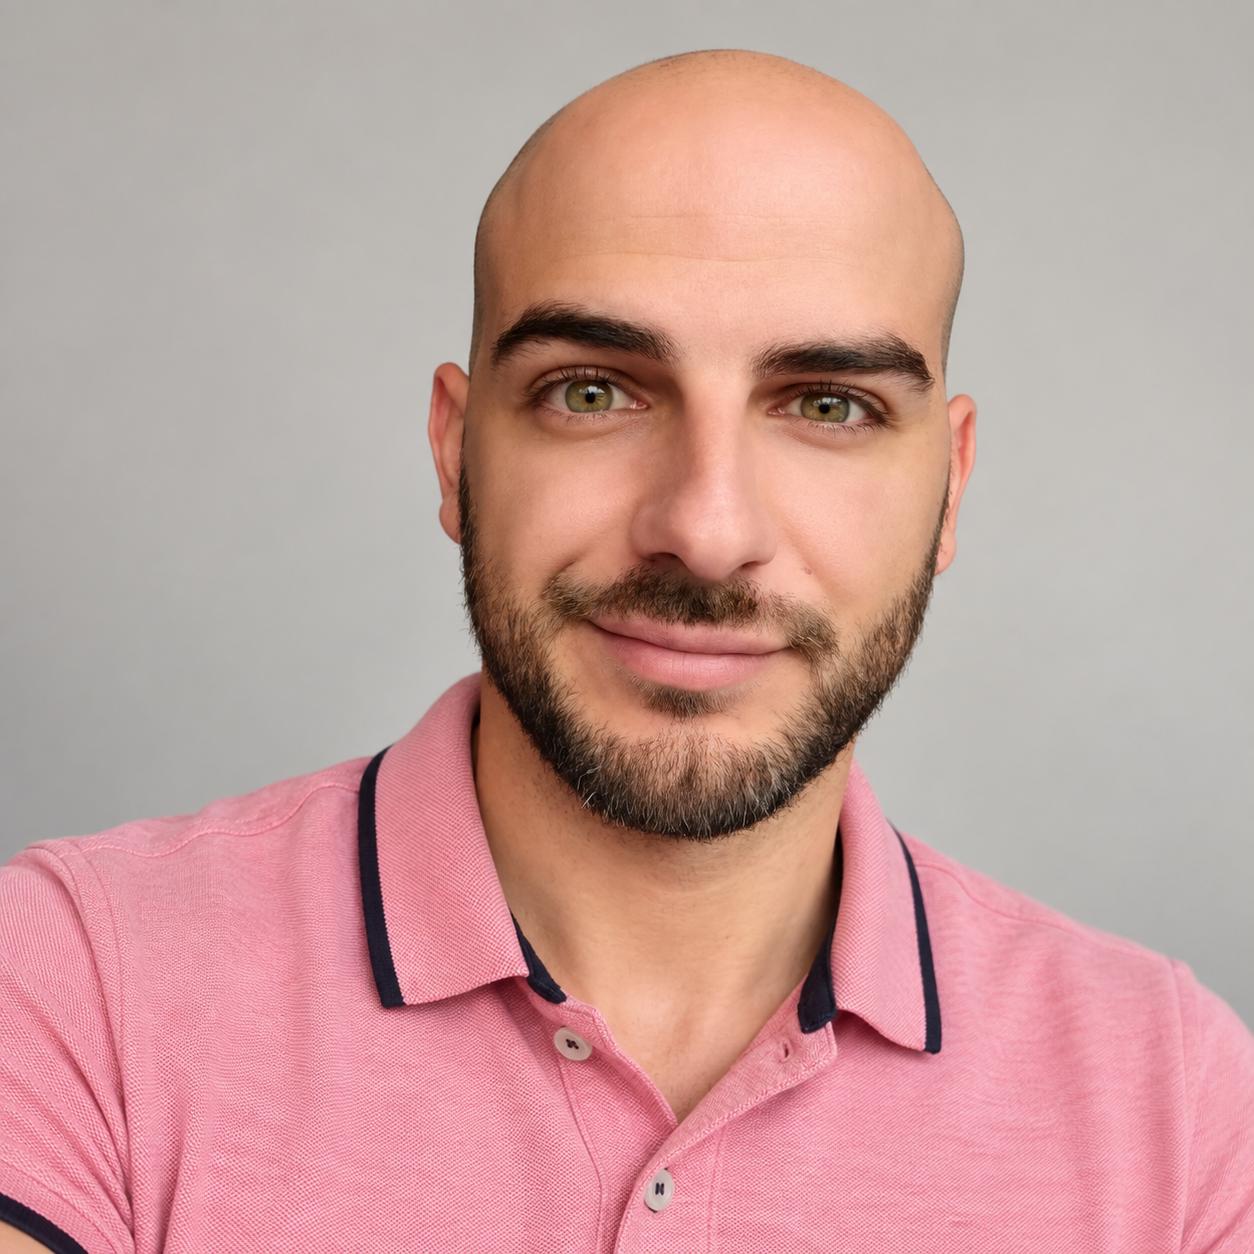
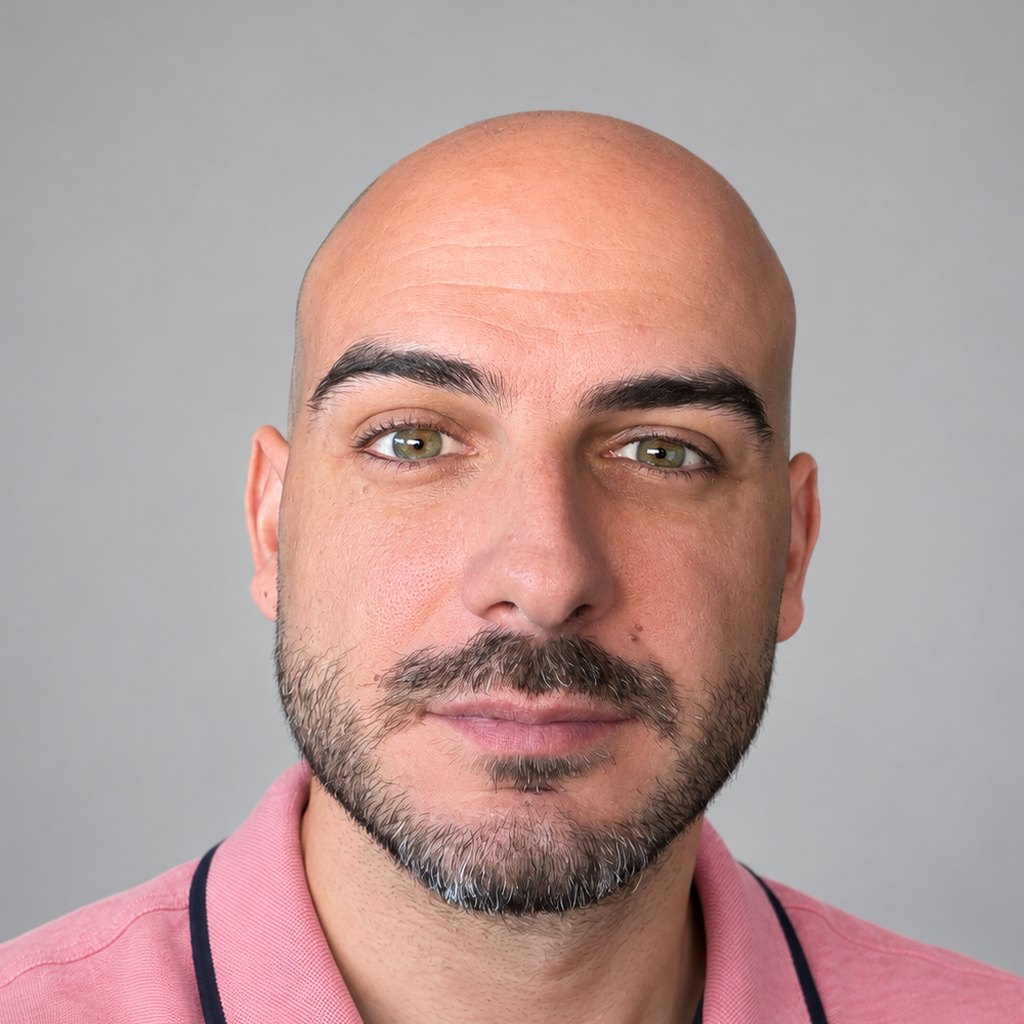
feat: contenido de los CV, foto nueva y parpadeo de Press Start

diff --git a/src/modules/profile/profile.ts b/src/modules/profile/profile.ts
@@ -3,6 +3,7 @@ import type { ContactLink, Profile, SkillGroup } from "@/shared/types/profile";
 
 /**
  * The owner's real identity and bio, in every supported language.
+ * Source: the Full Stack and QA versions of the CV (October 2026).
  *
  * Privacy note: the source CV also lists a personal phone number. It is
  * intentionally absent from this file and from the whole repository — a phone
@@ -19,7 +20,7 @@ const CONTACTS: readonly ContactLink[] = [
   {
     id: "linkedin",
     label: "LinkedIn",
-    href: "https://www.linkedin.com/in/adrichv/",
+    href: "https://www.linkedin.com/in/adrichdev/",
     external: true,
   },
   {
@@ -33,41 +34,44 @@ const CONTACTS: readonly ContactLink[] = [
 const IDENTITY = {
   name: "Adrián Chozas Vinuesa",
   handle: "AdrichDev",
-  role: "Software Developer",
   contacts: CONTACTS,
 } as const;
 
 export const PROFILES: Record<Lang, Profile> = {
   es: {
     ...IDENTITY,
+    role: "Desarrollador Full Stack",
     location: "Madrid, España",
     tagline:
       "Nueva partida. La misma misión: ayudar a resolver problemas a las personas. Tras más de 12 años en trabajo social, ahora construyo mi camino en el software.",
     portrait: {
       src: "/adrian-chozas.jpg",
-      alt: "Fotografía de perfil de Adrián Chozas Vinuesa, desarrollador de aplicaciones multiplataforma.",
+      alt: "Fotografía de perfil de Adrián Chozas Vinuesa, desarrollador Full Stack.",
       size: 1024,
     },
     bio: [
-      "Trabajador Social durante más de 12 años y hoy desarrollador de aplicaciones multiplataforma. Coordiné equipos y servicios de atención a personas mayores antes de dedicarme al software, y esa etapa sigue marcando mi forma de trabajar: escuchar antes de construir, entender a quién va dirigido cada producto y resolver los conflictos en cuanto aparecen.",
-      "Terminé el Grado Superior en Desarrollo de Aplicaciones Multiplataforma en junio de 2026 y actualmente curso un Máster en Desarrollo con Inteligencia Artificial. Entre medias trabajé como Software Developer en prácticas en EXCELIA, desarrollando aplicaciones web con React, Next.js, TypeScript y Tailwind CSS, además de integraciones con Power Platform, Navision y Business Central.",
-      "Alegre, entusiasta y apasionado por lo que hago. Me mantengo en formación constante, valoro profundamente el buen uso del tiempo y la eficiencia, y creo que un entorno positivo y la pasión por lo que uno hace marcan la diferencia.",
+      "Desarrollador Full Stack con experiencia en React, Next.js, TypeScript, Java, Python y SQL. Me especializo en integrar y orquestar agentes de IA con herramientas como Gentle-AI y enfoques SDD y ODD, diseñando flujos multiagente que cubren todo el ciclo de desarrollo: requisitos, arquitectura, implementación, testing y despliegue.",
+      "La calidad forma parte de mi forma de trabajar. En EXCELIA desarrollé aplicaciones web con React, Next.js, Node.js y Power Platform, y además diseñé pruebas funcionales y automaticé flujos E2E con Cypress y Cucumber (BDD). En mis proyectos propios cubro el código con tests unitarios y end-to-end con Vitest y Playwright.",
+      "Antes del software fui Trabajador Social durante más de 12 años, coordinando equipos de hasta 60 profesionales y resolviendo incidencias complejas bajo presión. De esa etapa traigo lo que más valoro: escuchar antes de construir, entender a quién va dirigido cada producto y resolver los problemas en cuanto aparecen.",
+      "Terminé el Grado Superior en Desarrollo de Aplicaciones Multiplataforma en junio de 2026 y curso un Máster en Desarrollo con Inteligencia Artificial. Alegre, entusiasta y en formación constante.",
     ],
   },
   en: {
     ...IDENTITY,
+    role: "Full Stack Developer",
     location: "Madrid, Spain",
     tagline:
       "New game. Same mission: helping people solve their problems. After more than 12 years in social work, I am now building my path in software.",
     portrait: {
       src: "/adrian-chozas.jpg",
-      alt: "Profile photo of Adrián Chozas Vinuesa, cross-platform application developer.",
+      alt: "Profile photo of Adrián Chozas Vinuesa, Full Stack developer.",
       size: 1024,
     },
     bio: [
-      "Social worker for more than 12 years and now a cross-platform application developer. I coordinated teams and care services for older people before moving into software, and that stage still shapes the way I work: listening before building, understanding who each product is for and solving conflicts as soon as they appear.",
-      "I completed the Higher Technical Diploma in Cross-Platform Application Development in June 2026 and I am currently studying a Master's in Development with Artificial Intelligence. In between, I worked as a Software Developer intern at EXCELIA, building web applications with React, Next.js, TypeScript and Tailwind CSS, plus integrations with Power Platform, Navision and Business Central.",
-      "Cheerful, enthusiastic and passionate about what I do. I keep learning all the time, I deeply value making good use of time and working efficiently, and I believe a positive environment and passion for your work make all the difference.",
+      "Full Stack developer with experience in React, Next.js, TypeScript, Java, Python and SQL. I specialise in integrating and orchestrating AI agents with tools such as Gentle-AI and SDD and ODD approaches, designing multi-agent workflows that cover the whole development cycle: requirements, architecture, implementation, testing and deployment.",
+      "Quality is part of the way I work. At EXCELIA I built web applications with React, Next.js, Node.js and Power Platform, and I also designed functional tests and automated E2E flows with Cypress and Cucumber (BDD). In my own projects I cover the code with unit and end-to-end tests using Vitest and Playwright.",
+      "Before software I was a social worker for more than 12 years, coordinating teams of up to 60 professionals and solving complex incidents under pressure. From that stage I bring what I value most: listening before building, understanding who each product is for and solving problems as soon as they appear.",
+      "I completed the Higher Technical Diploma in Cross-Platform Application Development in June 2026 and I am studying a Master's in Development with Artificial Intelligence. Cheerful, enthusiastic and always learning.",
     ],
   },
 };
@@ -75,37 +79,46 @@ export const PROFILES: Record<Lang, Profile> = {
 /** Default (Spanish) profile, used by server-rendered metadata. */
 export const PROFILE: Profile = PROFILES.es;
 
-/** Short facts for the player card. Kept to labels the CV actually states. */
+/** Short facts for the player card. Kept to what the CV actually states. */
 export const PROFILE_FACTS: Record<Lang, readonly { label: string; value: string }[]> = {
   es: [
-    { label: "Rol", value: PROFILES.es.role },
+    { label: "Rol", value: "Desarrollador Full Stack · QA" },
     { label: "Ubicación", value: PROFILES.es.location },
-    { label: "Idiomas", value: "Español · Inglés B1 (Cambridge Certificate)" },
+    { label: "Idiomas", value: "Español · Inglés B2" },
+    { label: "Movilidad", value: "Carnet B · Vehículo propio" },
   ],
   en: [
-    { label: "Role", value: PROFILES.en.role },
+    { label: "Role", value: "Full Stack Developer · QA" },
     { label: "Location", value: PROFILES.en.location },
-    { label: "Languages", value: "Spanish · English B1 (Cambridge Certificate)" },
+    { label: "Languages", value: "Spanish · English B2" },
+    { label: "Mobility", value: "Driving licence · Own car" },
   ],
 };
 
 const SKILL_ITEMS = {
-  "languages-frameworks": ["Java", "Python", "Kotlin", "TypeScript", "React", "Next.js", "Tailwind CSS", "HTML", "CSS", "Maven"],
-  "data-platforms": ["SQL", "MySQL", "Supabase", "Microsoft Power Platform", "Docker", "n8n"],
-  "ai-workflows": ["Claude Code", "Codex", "OpenCode", "SDD", "MCPs", "GentleAI", "Playwright E2E", "NotebookLM"],
-  tools: ["Git", "Jira", "IntelliJ", "VS Code", "Antigravity", "Warp", "SQL Developer", "VirtualBox"],
+  development: ["TypeScript", "React", "Next.js", "Vue", "Node.js", "Express", "Java", "Spring Boot", "Python", "FastAPI", "Tailwind CSS"],
+  data: ["SQL", "PostgreSQL", "MySQL", "Supabase", "Prisma", "pgvector", "RabbitMQ", "Microsoft Power Platform", "Docker"],
+  qa: ["Vitest", "Playwright", "Cypress", "Cucumber (BDD)", "Postman", "API REST", "E2E", "Regression"],
+  ai: ["Claude Code", "Codex", "OpenCode", "Gentle-AI", "MCPs", "n8n", "RAG"],
+  workflow: ["Git", "Bitbucket", "Jira", "Scrum", "Kanban", "SDD", "TDD", "ODD", "Warp"],
 } as const;
 
 const SKILL_TITLES: Record<Lang, Record<keyof typeof SKILL_ITEMS, string>> = {
-  es: { "languages-frameworks": "Desarrollo", "data-platforms": "Datos y plataformas", "ai-workflows": "IA y calidad", tools: "Herramientas" },
-  en: { "languages-frameworks": "Development", "data-platforms": "Data & platforms", "ai-workflows": "AI & quality", tools: "Tools" },
+  es: { development: "Desarrollo", data: "Datos y plataformas", qa: "Testing y QA", ai: "IA y automatización", workflow: "Metodologías y herramientas" },
+  en: { development: "Development", data: "Data & platforms", qa: "Testing & QA", ai: "AI & automation", workflow: "Methods & tools" },
+};
+
+/** The few labels that read differently per language; everything else is a proper noun. */
+const SKILL_LABELS: Record<Lang, Partial<Record<string, string>>> = {
+  es: { Regression: "Regresión" },
+  en: {},
 };
 
 function skillGroups(lang: Lang): SkillGroup[] {
   return (Object.keys(SKILL_ITEMS) as (keyof typeof SKILL_ITEMS)[]).map((id) => ({
     id,
     title: SKILL_TITLES[lang][id],
-    items: SKILL_ITEMS[id],
+    items: SKILL_ITEMS[id].map((item) => SKILL_LABELS[lang][item] ?? item),
   }));
 }
 
@@ -118,19 +131,23 @@ export const SKILL_GROUPS: Record<Lang, readonly SkillGroup[]> = {
 /** Selected interpersonal strengths, expressed as concise keywords. */
 export const SOFT_SKILLS: Record<Lang, readonly string[]> = {
   es: [
-    "Habilidad comunicativa",
+    "Comunicación",
     "Empatía profesional",
-    "Liderazgo",
+    "Liderazgo de equipos",
     "Pensamiento analítico",
+    "Resolución de conflictos",
     "Adaptabilidad",
     "Aprendizaje continuo",
+    "Orientación a resultados",
   ],
   en: [
-    "Communication skills",
+    "Communication",
     "Professional empathy",
-    "Leadership",
+    "Team leadership",
     "Analytical thinking",
+    "Conflict resolution",
     "Adaptability",
     "Continuous learning",
+    "Results-driven",
   ],
 };

diff --git a/src/modules/experience/experience-entries.ts b/src/modules/experience/experience-entries.ts
@@ -3,6 +3,7 @@ import type { TimelineEntry } from "@/shared/types/timeline";
 
 /**
  * Real work history, newest first, in every supported language.
+ * Source: the Full Stack and QA versions of the CV (October 2026), merged.
  *
  * Layout constraint on `period`: it renders in Press Start 2P, which is
  * strictly monospaced at a 1em advance, inside a `sm:w-48` (192px) column at
@@ -13,18 +14,33 @@ import type { TimelineEntry } from "@/shared/types/timeline";
 export const WORK_TIMELINE: Record<Lang, readonly TimelineEntry[]> = {
   es: [
     {
+      id: "freelance",
+      period: "01/2025 – Hoy",
+      title: "Desarrollador Full Stack y QA",
+      subtitle: "Freelance · Proyectos propios",
+      location: "Madrid, España",
+      bullets: [
+        "Agents Agency: plataforma de agentes de IA con Next.js, Prisma, PostgreSQL y Supabase, desplegada en Vercel y Render. Tests de backend con Vitest.",
+        "CRM Studio: CRM modular para distintos negocios con Next.js, Express, Prisma y PostgreSQL sobre Supabase. Tests E2E con Playwright de autenticación, navegación y gestión de clientes.",
+        "Web Noel Martín: web profesional de un ciclista olímpico con React 19 y Tailwind CSS v4 en Cloudflare Workers, validada en responsive y entre dispositivos.",
+        "Gru Orchestrator: orquestador de agentes de IA en TypeScript, Python y Node.js, con tests unitarios de clasificación de tareas, riesgos y casos límite.",
+        "Nexus: asistente personal con IA y arquitectura RAG (Python/FastAPI, PostgreSQL, pgvector y embeddings), con tests unitarios y end-to-end.",
+      ],
+    },
+    {
       id: "excelia",
       period: "02/2026 – 06/2026",
-      title: "Software Developer",
+      title: "Desarrollador Full Stack y QA",
       subtitle: "EXCELIA · Contrato de prácticas",
       location: "Pozuelo de Alarcón, Madrid, España",
       bullets: [
-        "Análisis, desarrollo y mejora de aplicaciones web para la gestión de imputación de horas.",
-        "Desarrollo frontend con React, Next.js, TypeScript y Tailwind CSS, centrado en la experiencia de usuario.",
-        "Integración con Power Apps, Power Pages, Dataverse y Power Automate, junto a Navision y Business Central.",
-        "Backend: lógica de negocio, flujos de aprobación, automatizaciones con Jobs y Crons y colas con RabbitMQ.",
-        "Metodologías ágiles (Scrum y Kanban), gestión y automatización de tareas en Jira y comunicación en Teams.",
-        "Uso supervisado y orquestado de IA en el ciclo de vida del software (GPT, Claude, Gemini, agentes, workflows y SDD).",
+        "Análisis, desarrollo, migración y mejora de aplicaciones web para la gestión de imputación de horas y proyectos.",
+        "Frontend con React, Next.js, TypeScript y Tailwind CSS; backend con Node.js, Express, Prisma ORM y PostgreSQL.",
+        "Integración con Power Apps, Power Pages, Dataverse Web API y Power Automate, junto a Navision y Business Central.",
+        "Automatizaciones con Jobs y Crons, y procesos asíncronos con RabbitMQ.",
+        "Diseño y ejecución de pruebas funcionales y validación de la integridad de los datos durante la migración.",
+        "Automatización de pruebas E2E con Cypress y escenarios BDD con Cucumber sobre los criterios de aceptación.",
+        "Orquestación de agentes de IA en el ciclo de vida del software: tickets en Jira, SDD, ODD y versionado en Bitbucket.",
       ],
     },
     {
@@ -34,9 +50,8 @@ export const WORK_TIMELINE: Record<Lang, readonly TimelineEntry[]> = {
       subtitle: "DOMUSVI (SAD Ayto. de Madrid)",
       location: "Madrid, España",
       bullets: [
-        "Coordinación y gestión eficiente de urgencias e incidencias.",
-        "Liderazgo y supervisión de equipos, impulsando un clima de trabajo colaborativo.",
-        "Elaboración y control de cuadrantes, fomentando la conciliación.",
+        "Liderazgo de un equipo de 60 profesionales y gestión integral de incidencias críticas.",
+        "Planificación y optimización de recursos mediante cuadrantes y turnos del personal.",
         "Coordinación con entidades públicas para la correcta implementación de los servicios.",
       ],
     },
@@ -47,26 +62,41 @@ export const WORK_TIMELINE: Record<Lang, readonly TimelineEntry[]> = {
       subtitle: "ESSIP – MUNDOMAYOR",
       location: "Madrid, España",
       bullets: [
-        "Orientación y asesoramiento sobre recursos públicos y privados dirigidos a personas mayores.",
-        "Coordinación y supervisión de entidades colaboradoras, y trabajo conjunto con servicios sociales y otras entidades públicas.",
-        "Gestión de base de datos y herramientas de CRM, optimizando procesos y mejorando la experiencia de los usuarios.",
+        "Asesoramiento sobre recursos públicos y privados para personas mayores.",
+        "Coordinación interinstitucional con entidades públicas y resolución de situaciones complejas bajo presión.",
+        "Gestión de base de datos y herramientas de CRM, optimizando procesos y la experiencia de los usuarios.",
       ],
     },
   ],
   en: [
     {
+      id: "freelance",
+      period: "01/2025 – Now",
+      title: "Full Stack Developer & QA",
+      subtitle: "Freelance · Own projects",
+      location: "Madrid, Spain",
+      bullets: [
+        "Agents Agency: AI agent platform built with Next.js, Prisma, PostgreSQL and Supabase, deployed on Vercel and Render. Backend tests with Vitest.",
+        "CRM Studio: modular CRM for different businesses with Next.js, Express, Prisma and PostgreSQL on Supabase. Playwright E2E tests for authentication, navigation and client management.",
+        "Web Noel Martín: professional website for an Olympic cyclist with React 19 and Tailwind CSS v4 on Cloudflare Workers, validated for responsive design and across devices.",
+        "Gru Orchestrator: AI agent orchestrator in TypeScript, Python and Node.js, with unit tests for task classification, risk assessment and edge cases.",
+        "Nexus: AI personal assistant with a RAG architecture (Python/FastAPI, PostgreSQL, pgvector and embeddings), with unit and end-to-end tests.",
+      ],
+    },
+    {
       id: "excelia",
       period: "02/2026 – 06/2026",
-      title: "Software Developer",
+      title: "Full Stack Developer & QA",
       subtitle: "EXCELIA · Internship",
       location: "Pozuelo de Alarcón, Madrid, Spain",
       bullets: [
-        "Analysis, development and improvement of web applications for time-tracking management.",
-        "Frontend development with React, Next.js, TypeScript and Tailwind CSS, focused on user experience.",
-        "Integration with Power Apps, Power Pages, Dataverse and Power Automate, alongside Navision and Business Central.",
-        "Backend: business logic, approval flows, automations with Jobs and Crons, and queues with RabbitMQ.",
-        "Agile methodologies (Scrum and Kanban), task management and automation in Jira, and communication in Teams.",
-        "Supervised, orchestrated use of AI across the software lifecycle (GPT, Claude, Gemini, agents, workflows and SDD).",
+        "Analysis, development, migration and improvement of web applications for time-tracking and project management.",
+        "Frontend with React, Next.js, TypeScript and Tailwind CSS; backend with Node.js, Express, Prisma ORM and PostgreSQL.",
+        "Integration with Power Apps, Power Pages, Dataverse Web API and Power Automate, alongside Navision and Business Central.",
+        "Automations with Jobs and Crons, and asynchronous processes with RabbitMQ.",
+        "Design and execution of functional tests and data integrity validation during the migration.",
+        "E2E test automation with Cypress and BDD scenarios with Cucumber based on acceptance criteria.",
+        "AI agent orchestration across the software lifecycle: Jira tickets, SDD, ODD and versioning in Bitbucket.",
       ],
     },
     {
@@ -76,9 +106,8 @@ export const WORK_TIMELINE: Record<Lang, readonly TimelineEntry[]> = {
       subtitle: "DOMUSVI (Madrid City Council home care)",
       location: "Madrid, Spain",
       bullets: [
-        "Efficient coordination and handling of emergencies and incidents.",
-        "Team leadership and supervision, fostering a collaborative work environment.",
-        "Preparing and managing staff rotas, supporting work-life balance.",
+        "Led a team of 60 professionals and handled critical incidents end to end.",
+        "Resource planning and optimisation through staff rotas and shift scheduling.",
         "Coordination with public bodies to ensure services were delivered correctly.",
       ],
     },
@@ -89,9 +118,9 @@ export const WORK_TIMELINE: Record<Lang, readonly TimelineEntry[]> = {
       subtitle: "ESSIP – MUNDOMAYOR",
       location: "Madrid, Spain",
       bullets: [
-        "Guidance and advice on public and private resources for older people.",
-        "Coordination and supervision of partner organisations, working jointly with social services and other public bodies.",
-        "Database and CRM tool management, optimising processes and improving the user experience.",
+        "Advice on public and private resources for older people.",
+        "Inter-agency coordination with public bodies and handling complex situations under pressure.",
+        "Database and CRM tool management, optimising processes and the user experience.",
       ],
     },
   ],
@@ -110,7 +139,7 @@ export const EDUCATION_TIMELINE: Record<Lang, readonly TimelineEntry[]> = {
     {
       id: "dam",
       period: "09/2024 – 06/2026",
-      title: "Técnico Superior en Desarrollo de Aplicaciones Multiplataforma",
+      title: "Técnico Superior en Desarrollo de Aplicaciones Multiplataforma (DAM)",
       subtitle: "FP Tech Hub Euroformac",
       location: "Madrid, España",
     },
@@ -133,7 +162,7 @@ export const EDUCATION_TIMELINE: Record<Lang, readonly TimelineEntry[]> = {
     {
       id: "dam",
       period: "09/2024 – 06/2026",
-      title: "Higher Technical Diploma in Cross-Platform Application Development",
+      title: "Higher Technical Diploma in Cross-Platform Application Development (DAM)",
       subtitle: "FP Tech Hub Euroformac",
       location: "Madrid, Spain",
     },

diff --git a/src/modules/projects/projects.ts b/src/modules/projects/projects.ts
@@ -3,14 +3,26 @@ import type { ProjectSummary } from "@/shared/types/project";
 
 const GITHUB_OWNER_URL = "https://github.com/AdrichDev";
 
-/** Pinned repositories verified against the public profile on 2026-09-15. */
+/** Pinned repositories verified against the public profile on 2026-09-15. Descriptions follow the CV. */
 const PROJECT_SEEDS: readonly { repo: string; language: string; description: Record<Lang, string> }[] = [
-  { repo: "agents-agency", language: "TypeScript", description: { es: "Agencia de desarrollo de agentes de inteligencia artificial.", en: "Agency for building artificial intelligence agents." } },
-  { repo: "crm_creator", language: "TypeScript", description: { es: "Creador de CRM.", en: "CRM builder." } },
-  { repo: "gru_orchestrator", language: "TypeScript", description: { es: "Orquestador de agentes y workflows.", en: "Agent and workflow orchestrator." } },
-  { repo: "nexus", language: "Python", description: { es: "Asistente personal tipo Jarvis.", en: "Jarvis-style personal assistant." } },
-  { repo: "NumerosLoteria", language: "Java", description: { es: "Generador de números aleatorios de lotería.", en: "Random lottery number generator." } },
-  { repo: "portfolio", language: "TypeScript", description: { es: "Este portfolio retro: una aventura construida con Next.js, React y Tailwind CSS.", en: "This retro portfolio: an adventure built with Next.js, React and Tailwind CSS." } },
+  { repo: "agents-agency", language: "TypeScript", description: {
+    es: "Plataforma de agentes de IA con Next.js, Prisma, PostgreSQL y Supabase, desplegada en Vercel y Render.",
+    en: "AI agent platform with Next.js, Prisma, PostgreSQL and Supabase, deployed on Vercel and Render." } },
+  { repo: "crm_creator", language: "TypeScript", description: {
+    es: "CRM Studio: CRM modular para distintos negocios con Next.js, Express y Prisma, con tests E2E en Playwright.",
+    en: "CRM Studio: modular CRM for different businesses with Next.js, Express and Prisma, with Playwright E2E tests." } },
+  { repo: "gru_orchestrator", language: "TypeScript", description: {
+    es: "Orquestador de agentes de IA en TypeScript, Python y Node.js, con tests unitarios en Vitest.",
+    en: "AI agent orchestrator in TypeScript, Python and Node.js, with Vitest unit tests." } },
+  { repo: "nexus", language: "Python", description: {
+    es: "Asistente personal con IA y arquitectura RAG: FastAPI, PostgreSQL, pgvector y búsqueda semántica.",
+    en: "AI personal assistant with a RAG architecture: FastAPI, PostgreSQL, pgvector and semantic search." } },
+  { repo: "NumerosLoteria", language: "Java", description: {
+    es: "Generador de números aleatorios de lotería.",
+    en: "Random lottery number generator." } },
+  { repo: "portfolio", language: "TypeScript", description: {
+    es: "Este portfolio retro y bilingüe: una aventura construida con Next.js, React y Tailwind CSS.",
+    en: "This bilingual retro portfolio: an adventure built with Next.js, React and Tailwind CSS." } },
 ];
 
 function projects(lang: Lang): ProjectSummary[] {

diff --git a/src/app/globals.css b/src/app/globals.css
@@ -539,3 +539,7 @@ button:focus-visible,a:focus-visible,summary:focus-visible { outline:2px solid v
 .language-select select:focus-visible { outline:2px solid var(--color-signal-amber); outline-offset:3px; }
 .language-select option { background:#1d1030; color:var(--color-phosphor); }
 @media (max-width:600px) { .language-select select { font-size:7px; padding:6px 20px 6px 8px; } .language-select::after { right:6px; } }
+/* Arcade "PRESS START": hard on/off blink, like the attract mode of a cabinet. */
+.arcade-hard-blink { animation:arcade-hard-blink 1s steps(1,end) infinite; }
+@keyframes arcade-hard-blink { 0%,55% { opacity:1; } 56%,100% { opacity:0; } }
+@media (prefers-reduced-motion:reduce) { .arcade-hard-blink { animation:none!important; opacity:1; } }

diff --git a/src/app/layout.tsx b/src/app/layout.tsx
@@ -25,7 +25,7 @@ const ibmPlexMono = IBM_Plex_Mono({
 const PAGE_TITLE = `${PROFILE.name} — ${PROFILE.role}`;
 
 const PAGE_DESCRIPTION =
-  "Portfolio de Adrián Chozas Vinuesa, Software Developer en Madrid. Trabajador Social durante más de 12 años, ahora centrado en React, Next.js, TypeScript, Tailwind CSS, IA y Power Platform.";
+  "Portfolio de Adrián Chozas Vinuesa, Desarrollador Full Stack y QA en Madrid. React, Next.js, TypeScript, Java, Python, testing con Playwright y Cypress, y orquestación de agentes de IA.";
 
 // A portable export has no public host until uploaded. Omit absolute previews
 // rather than publishing localhost; set NEXT_PUBLIC_SITE_URL when the host is known.
